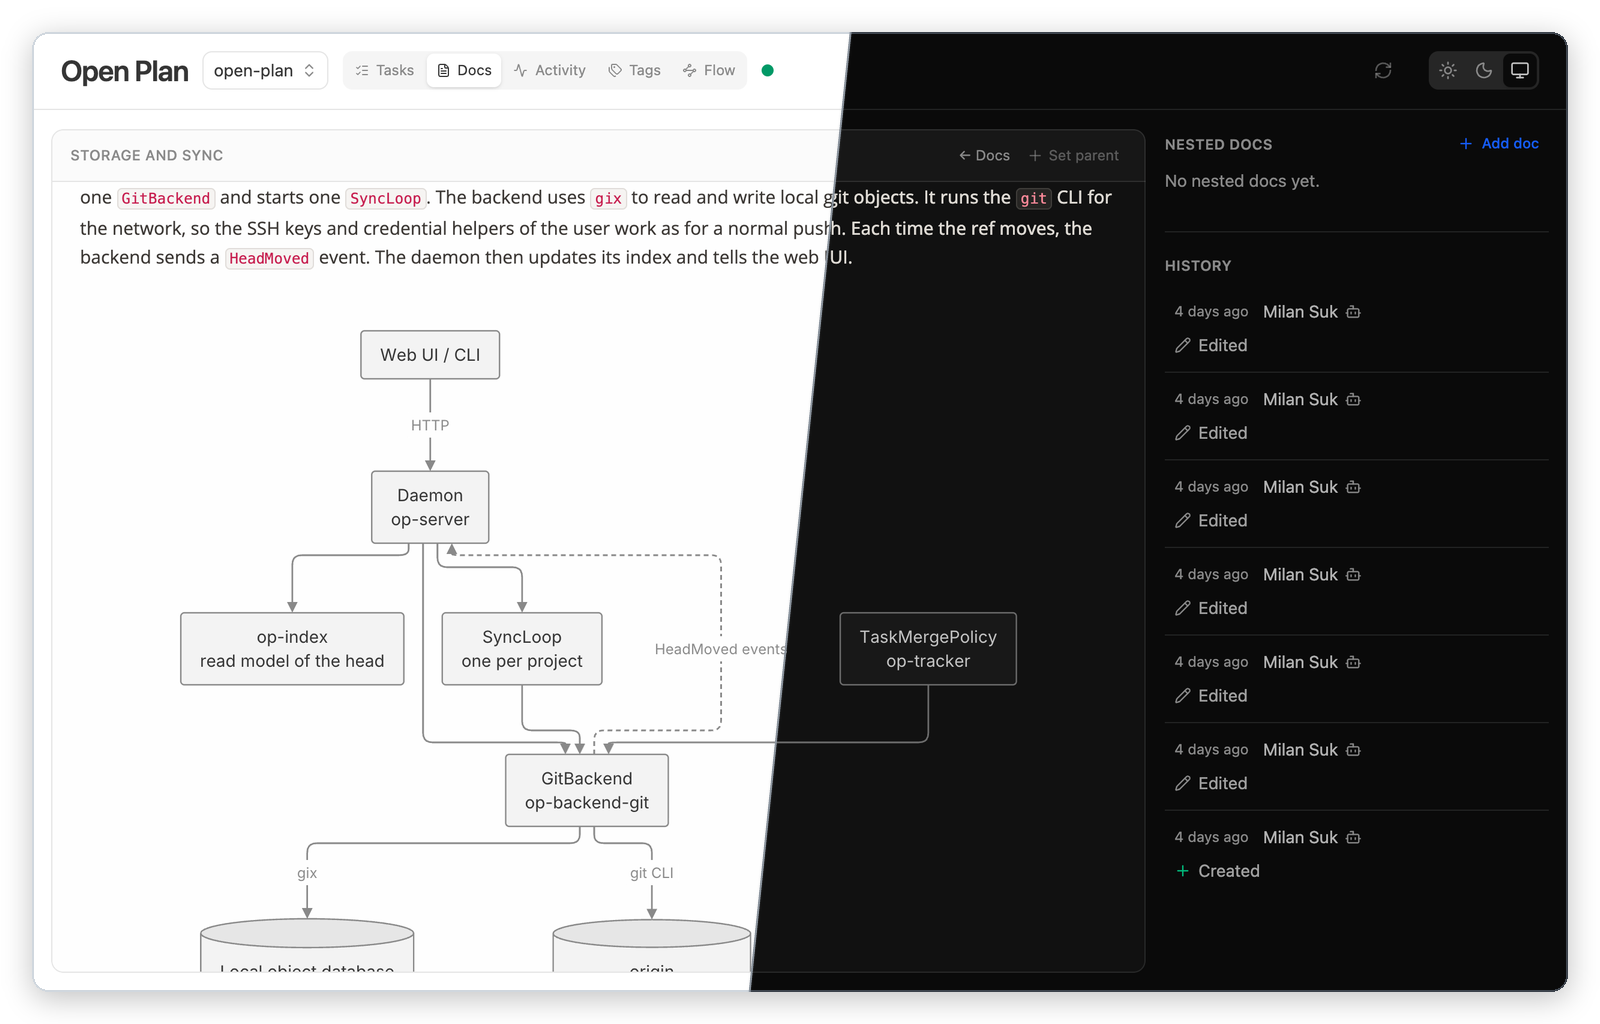
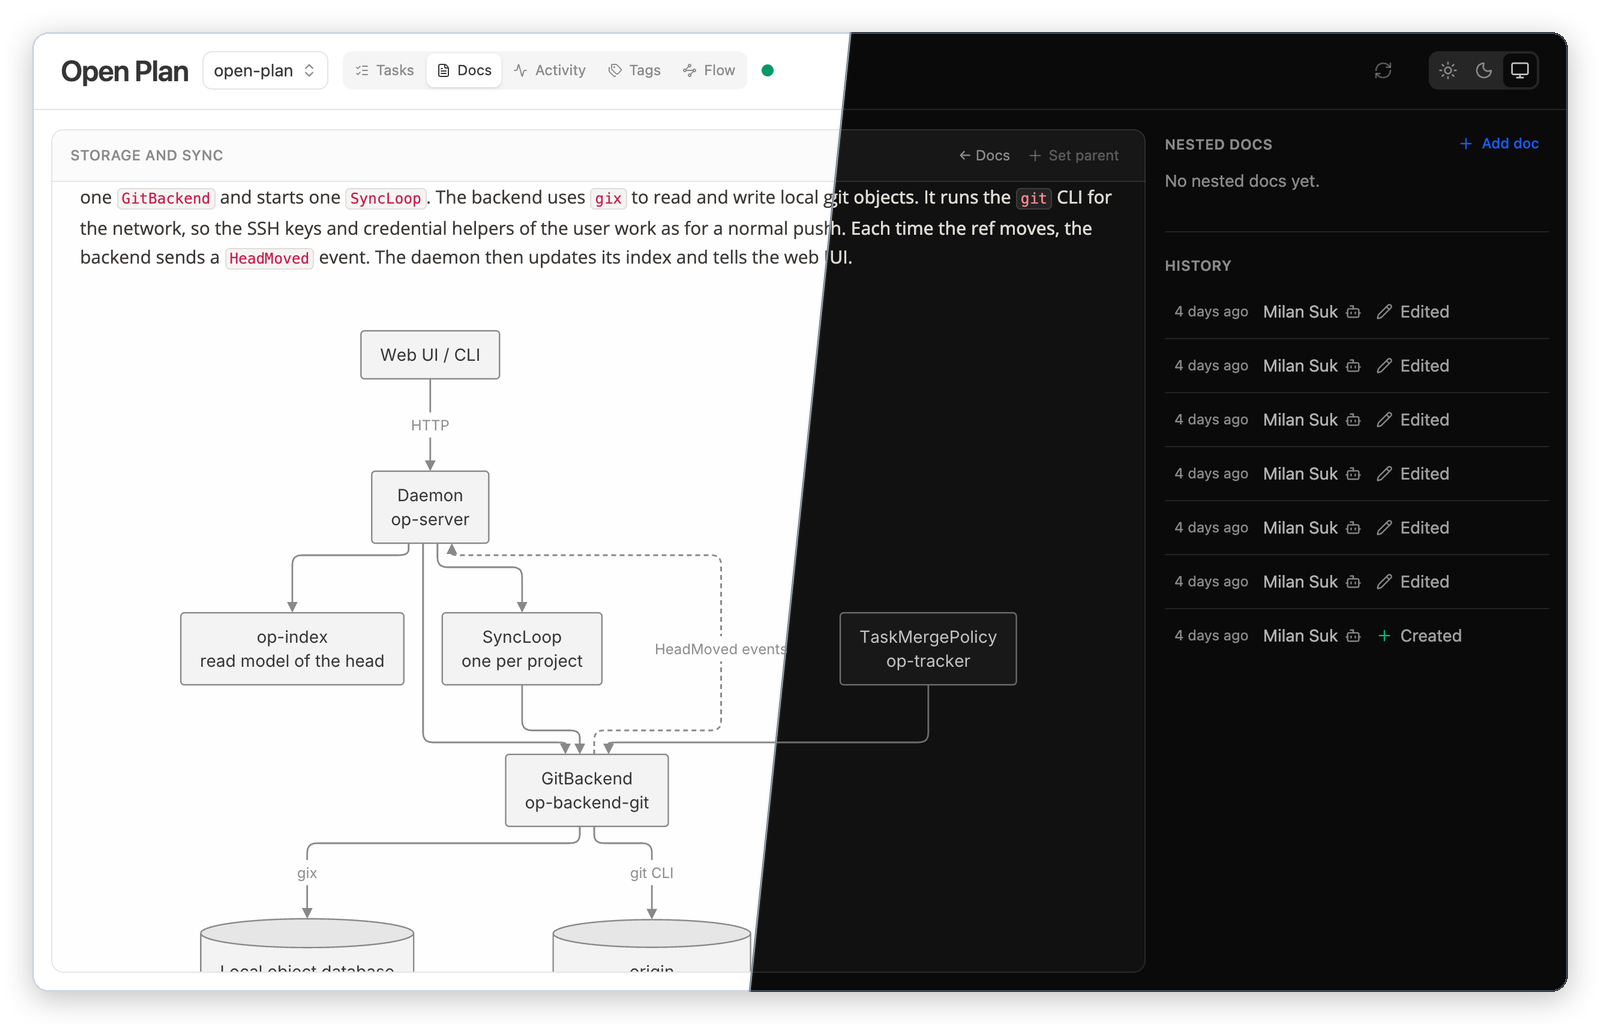
fix(web): show the change beside the author in the history of one task or doc (#244)
The doc sidebar was too narrow for the 10rem change column, so "Edited" went to a new line. The change column now takes the width of its content in the history of one task or doc. Retake the doc screenshot in the README.

diff --git a/web/packages/app/src/components/revision-list.tsx b/web/packages/app/src/components/revision-list.tsx
@@ -213,7 +213,9 @@ const Revision = memo(function Revision({
           </MetaItem>
         )}
       </span>
-      <ul aria-label="Changes" className="flex min-w-0 flex-1 basis-40 flex-col gap-1">
+      {/* The history of one task or doc names no task or doc, so its change is short: it stands beside
+          the author whenever it fits, even in a narrow sidebar. */}
+      <ul aria-label="Changes" className={cn("flex min-w-0 flex-1 flex-col gap-1", one ? "basis-auto" : "basis-40")}>
         {lines.map((line) => {
           const content = (
             <ChangeLine
